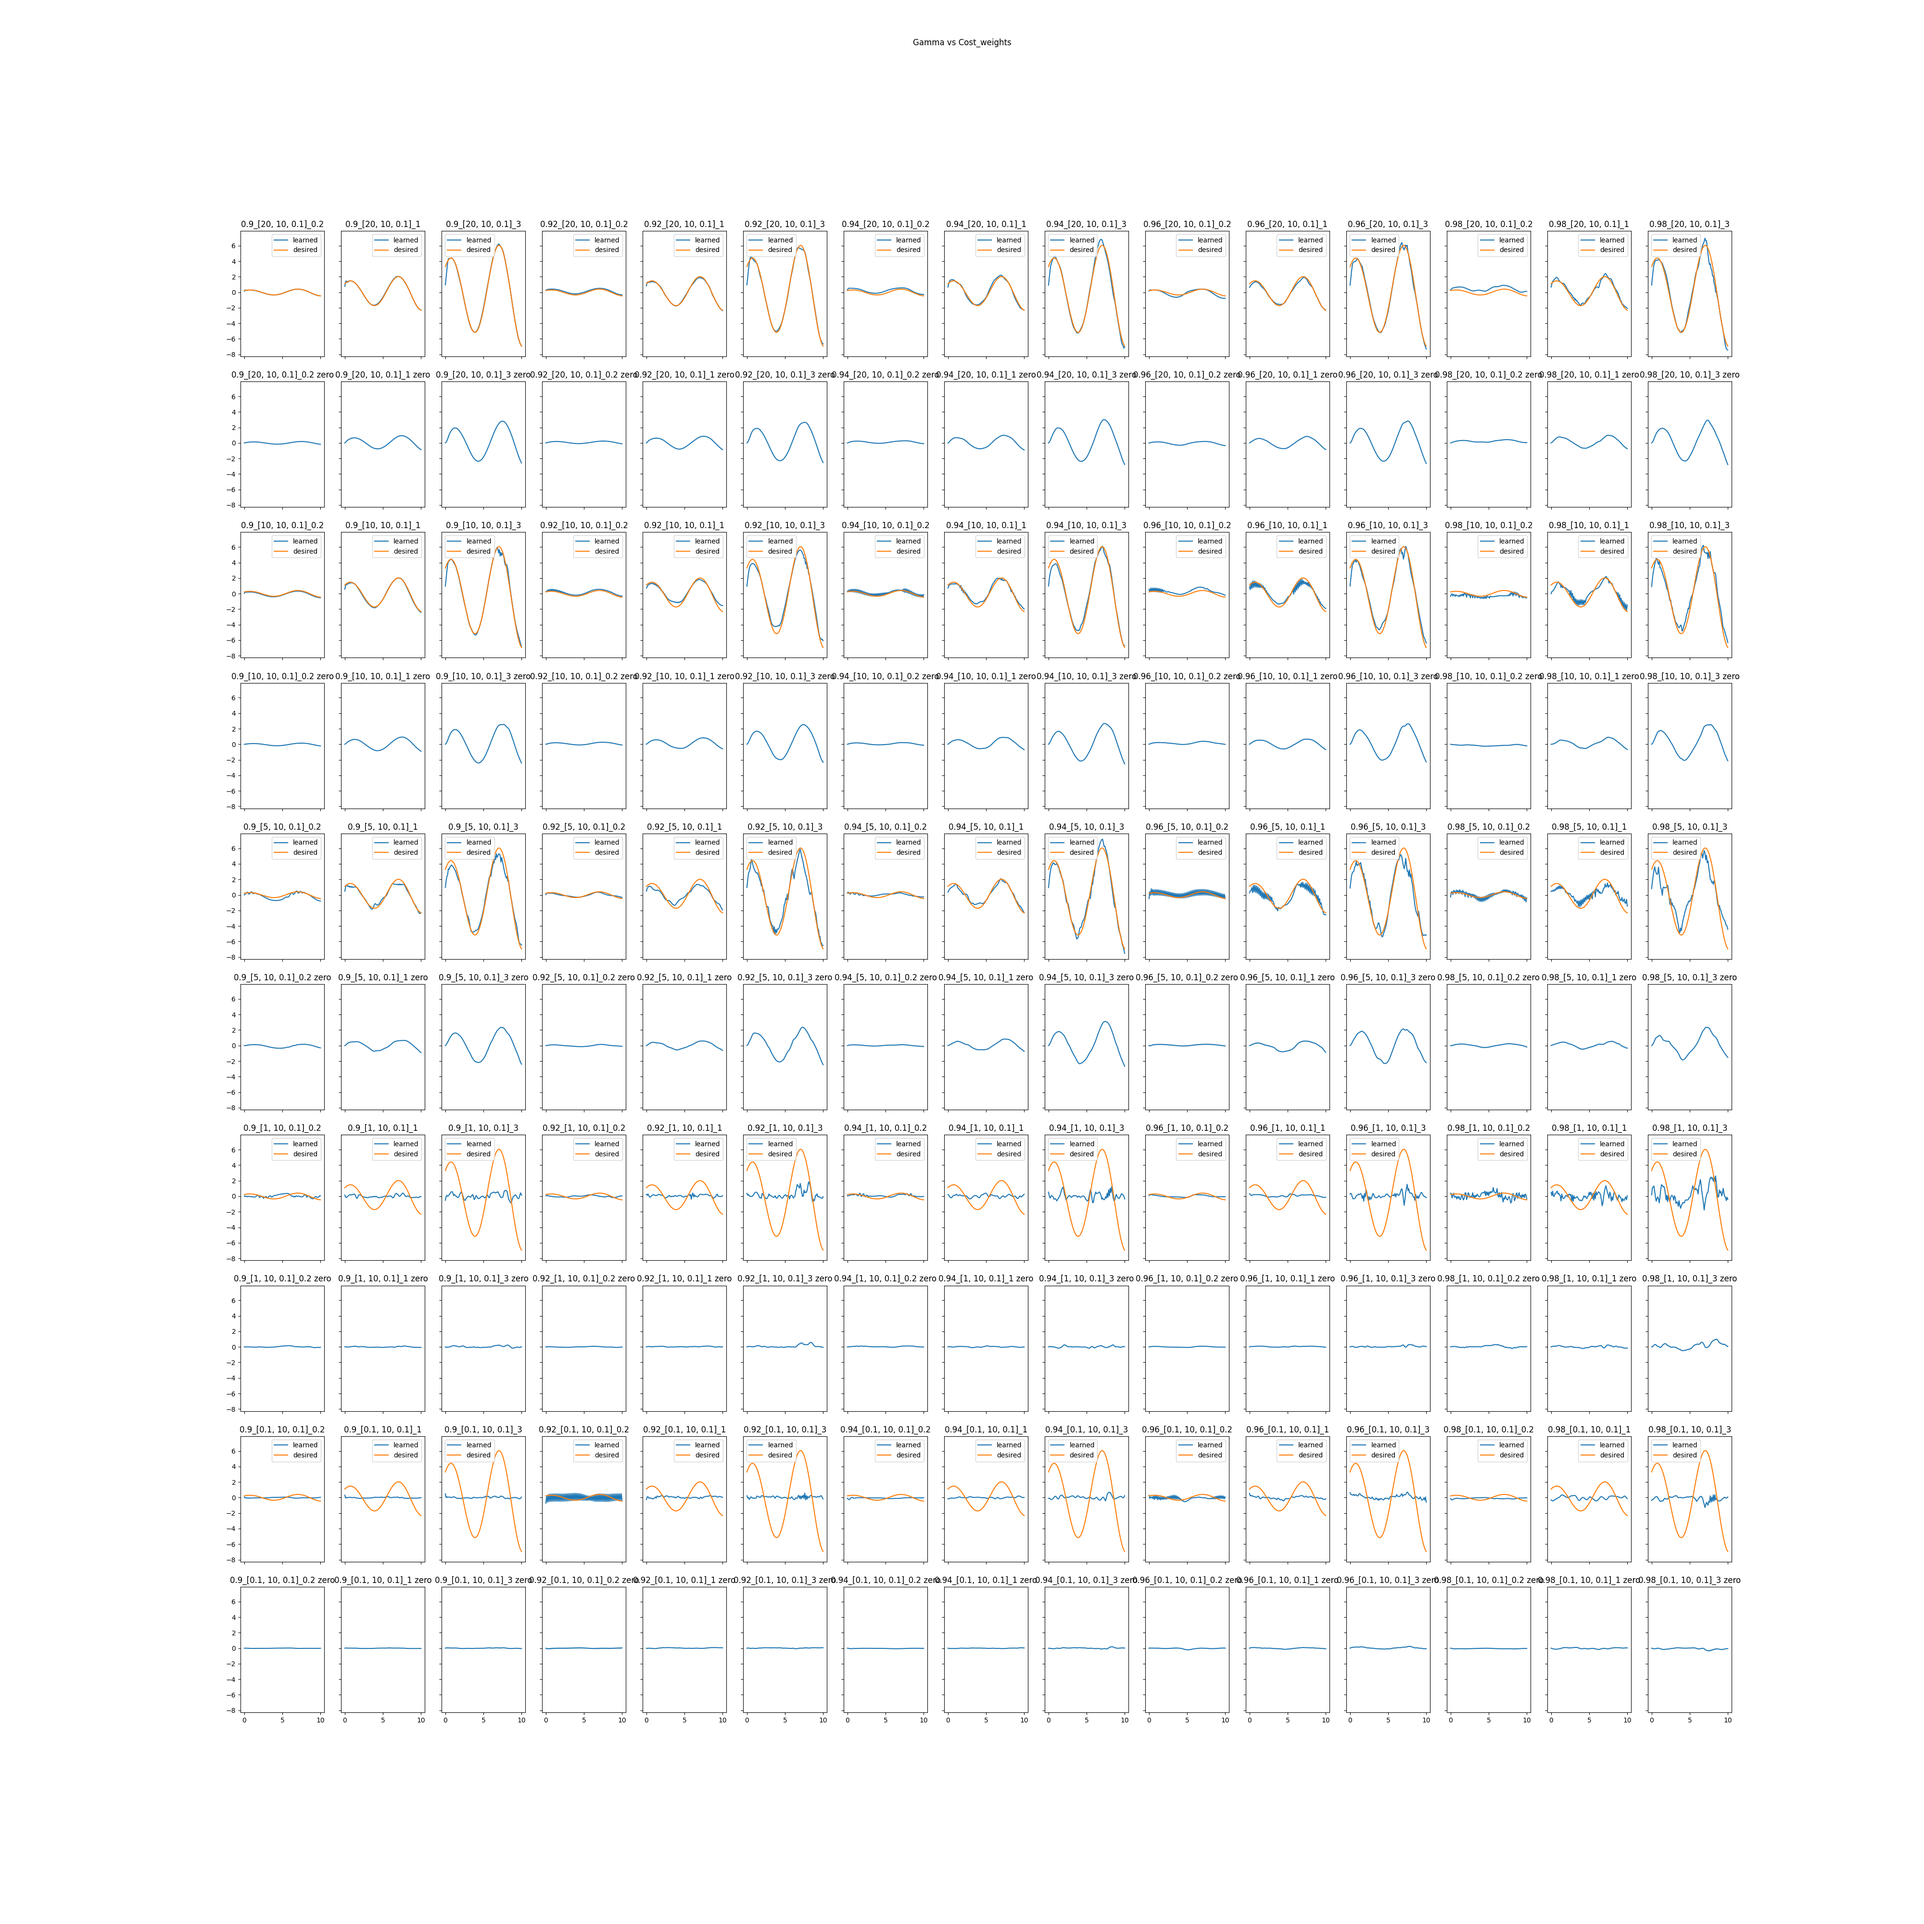
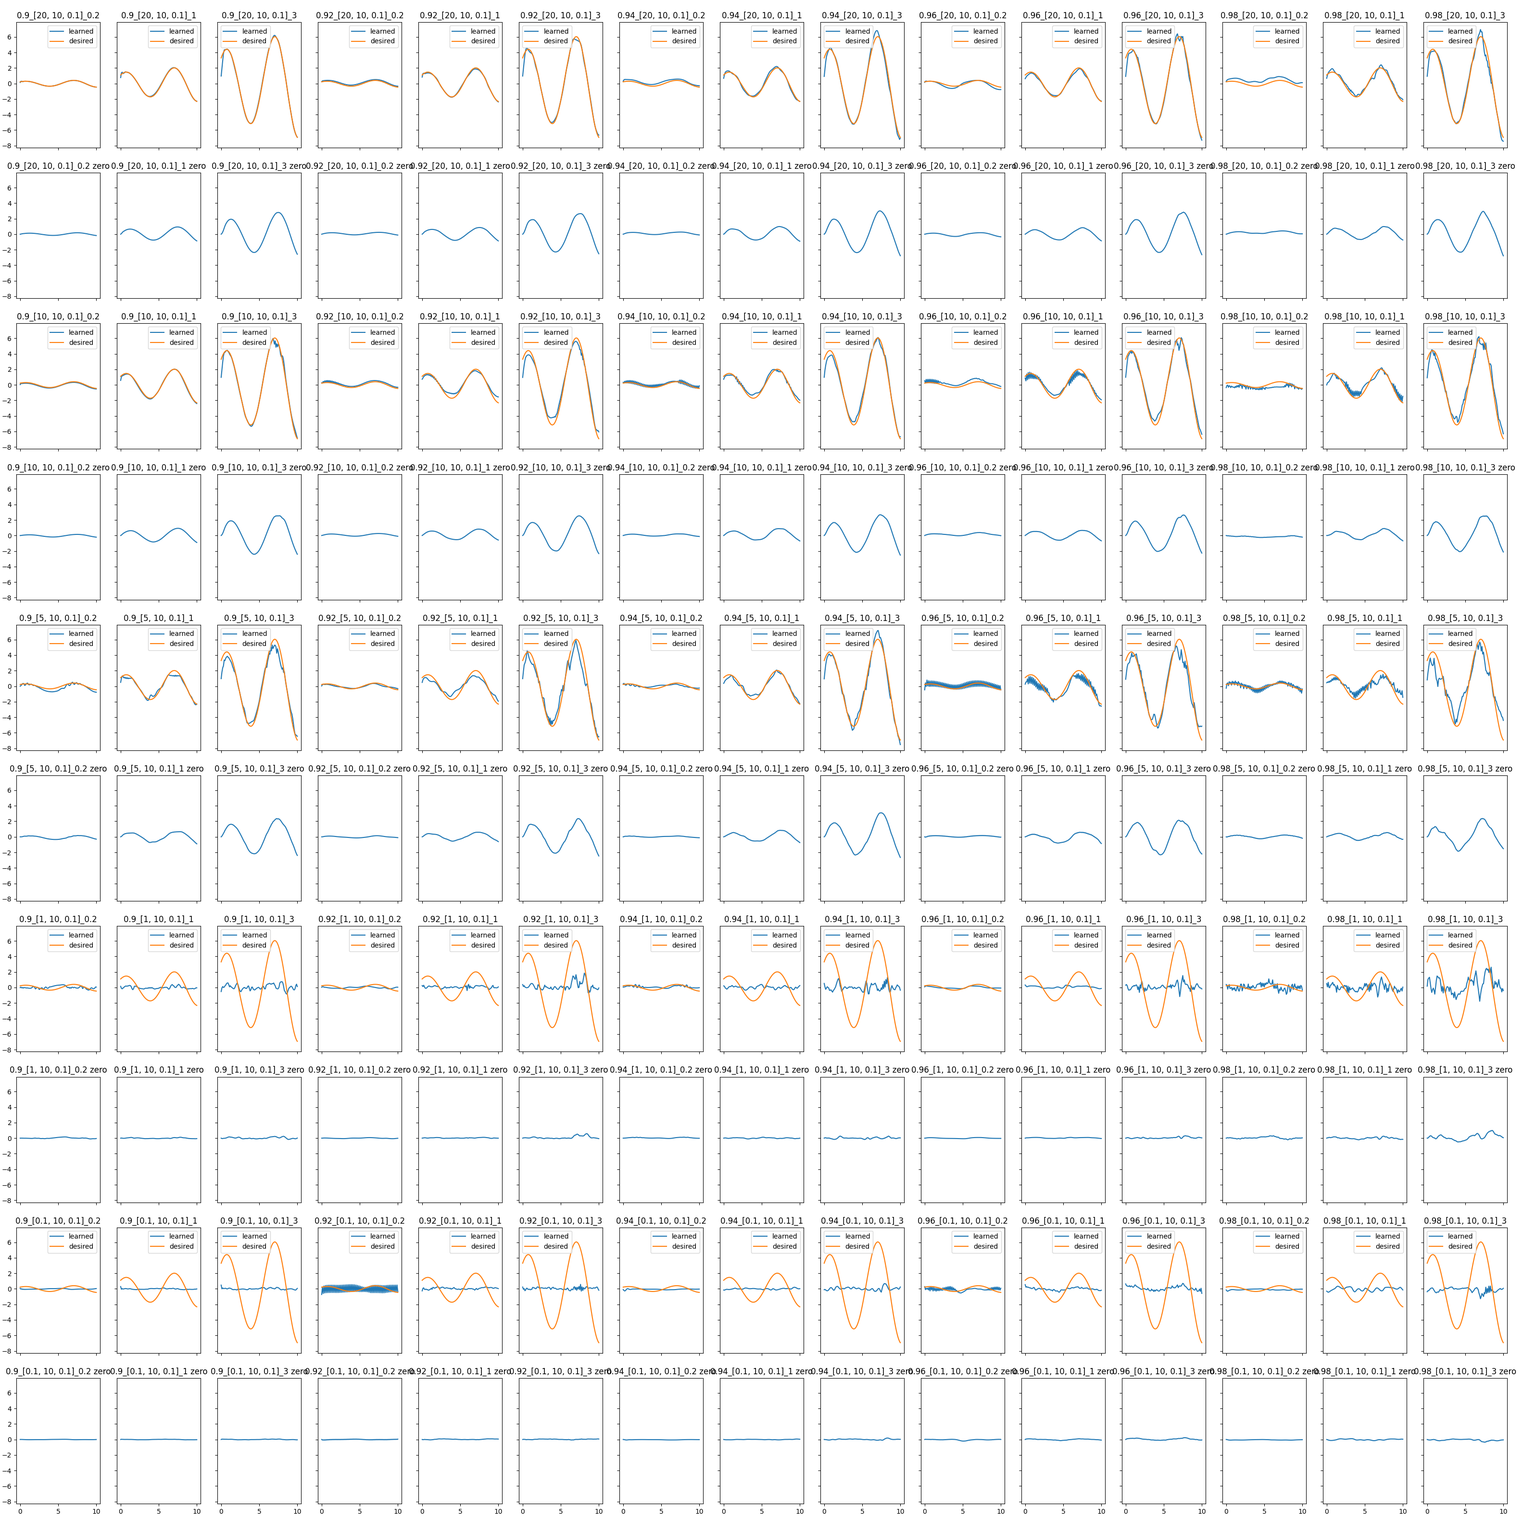
saving changes

diff --git a/RL_env.py b/RL_env.py
@@ -96,45 +96,6 @@ class RL_env(gym.Env):
 
   def render(self, mode='console'):
 
-    # plt.figure()
-    # plt.plot(self.times[:-1], self.learned, label = "learned")
-    # plt.plot(self.times[:-1], self.desired, label = "desired")
-    # plt.xlabel('time')
-    # # Set the y axis label of the current axis.
-    # plt.ylabel('position')
-    # # Set a title of the current axes.
-    # plt.title('Learned vs Desired')
-    # # show a legend on the plot
-    # plt.legend() 
-    # # Display a figure.
-    # plt.savefig(os.path.join(self.folder, "path.png"))
-
-    # plt.figure()
-    # plt.plot(self.times[:-1], self.zero)    
-    # plt.xlabel('time')
-    # # Set the y axis label of the current axis.
-    # plt.ylabel('y')
-    # # Set a title of the current axes.
-    # plt.title('Zero Dynamics')
-    # # Display a figure.
-    # plt.savefig(os.path.join(self.folder, "zero.png"))
-
-
-    # plt.figure()
-    # plt.plot(self.times, self.costs, label="total cost")
-    # plt.plot(self.times, self.costs_path, label="path cost") 
-    # plt.plot(self.times, self.costs_zero, label="zero cost") 
-    # plt.plot(self.times, self.costs_input, label="input cost")     
-    # plt.xlabel('time')
-    # # Set the y axis label of the current axis.
-    # plt.ylabel('cost')
-    # # Set a title of the current axes.
-    # plt.title('Costs')
-    # # show a legend on the plot
-    # plt.legend()
-    # # Display a figure.
-    # plt.savefig(self.folder + "/cost.png")
-
     return self.learned, self.desired, self.zero
 
      

diff --git a/sweep.py b/sweep.py
@@ -108,14 +108,14 @@ for i in range(len(cost_weights_sweep)):
 				action, _states = model.predict(obs)
 				obs, rewards, done, info = test_env.step(action)
 
-			times, learned, desired, zero = test_env.render()
+			learned, desired, zero = test_env.render()
 
-			ax[2*i, 3*j + k].plot(times, learned, label='learned')
-			ax[2*i, 3*j + k].plot(times, desired, label='desired')
+			ax[2*i, 3*j + k].plot(learned, label='learned')
+			ax[2*i, 3*j + k].plot(desired, label='desired')
 			ax[2*i, 3*j + k].set_title("{}_{}_{}".format(gamma, cost_weights, size))
 			ax[2*i, 3*j + k].legend()
 
-			ax[2*i + 1, 3*j + k].plot(times, zero)
+			ax[2*i + 1, 3*j + k].plot(zero)
 			ax[2*i + 1, 3*j + k].set_title("{}_{}_{} zero".format(gamma, cost_weights, size))
 
 
